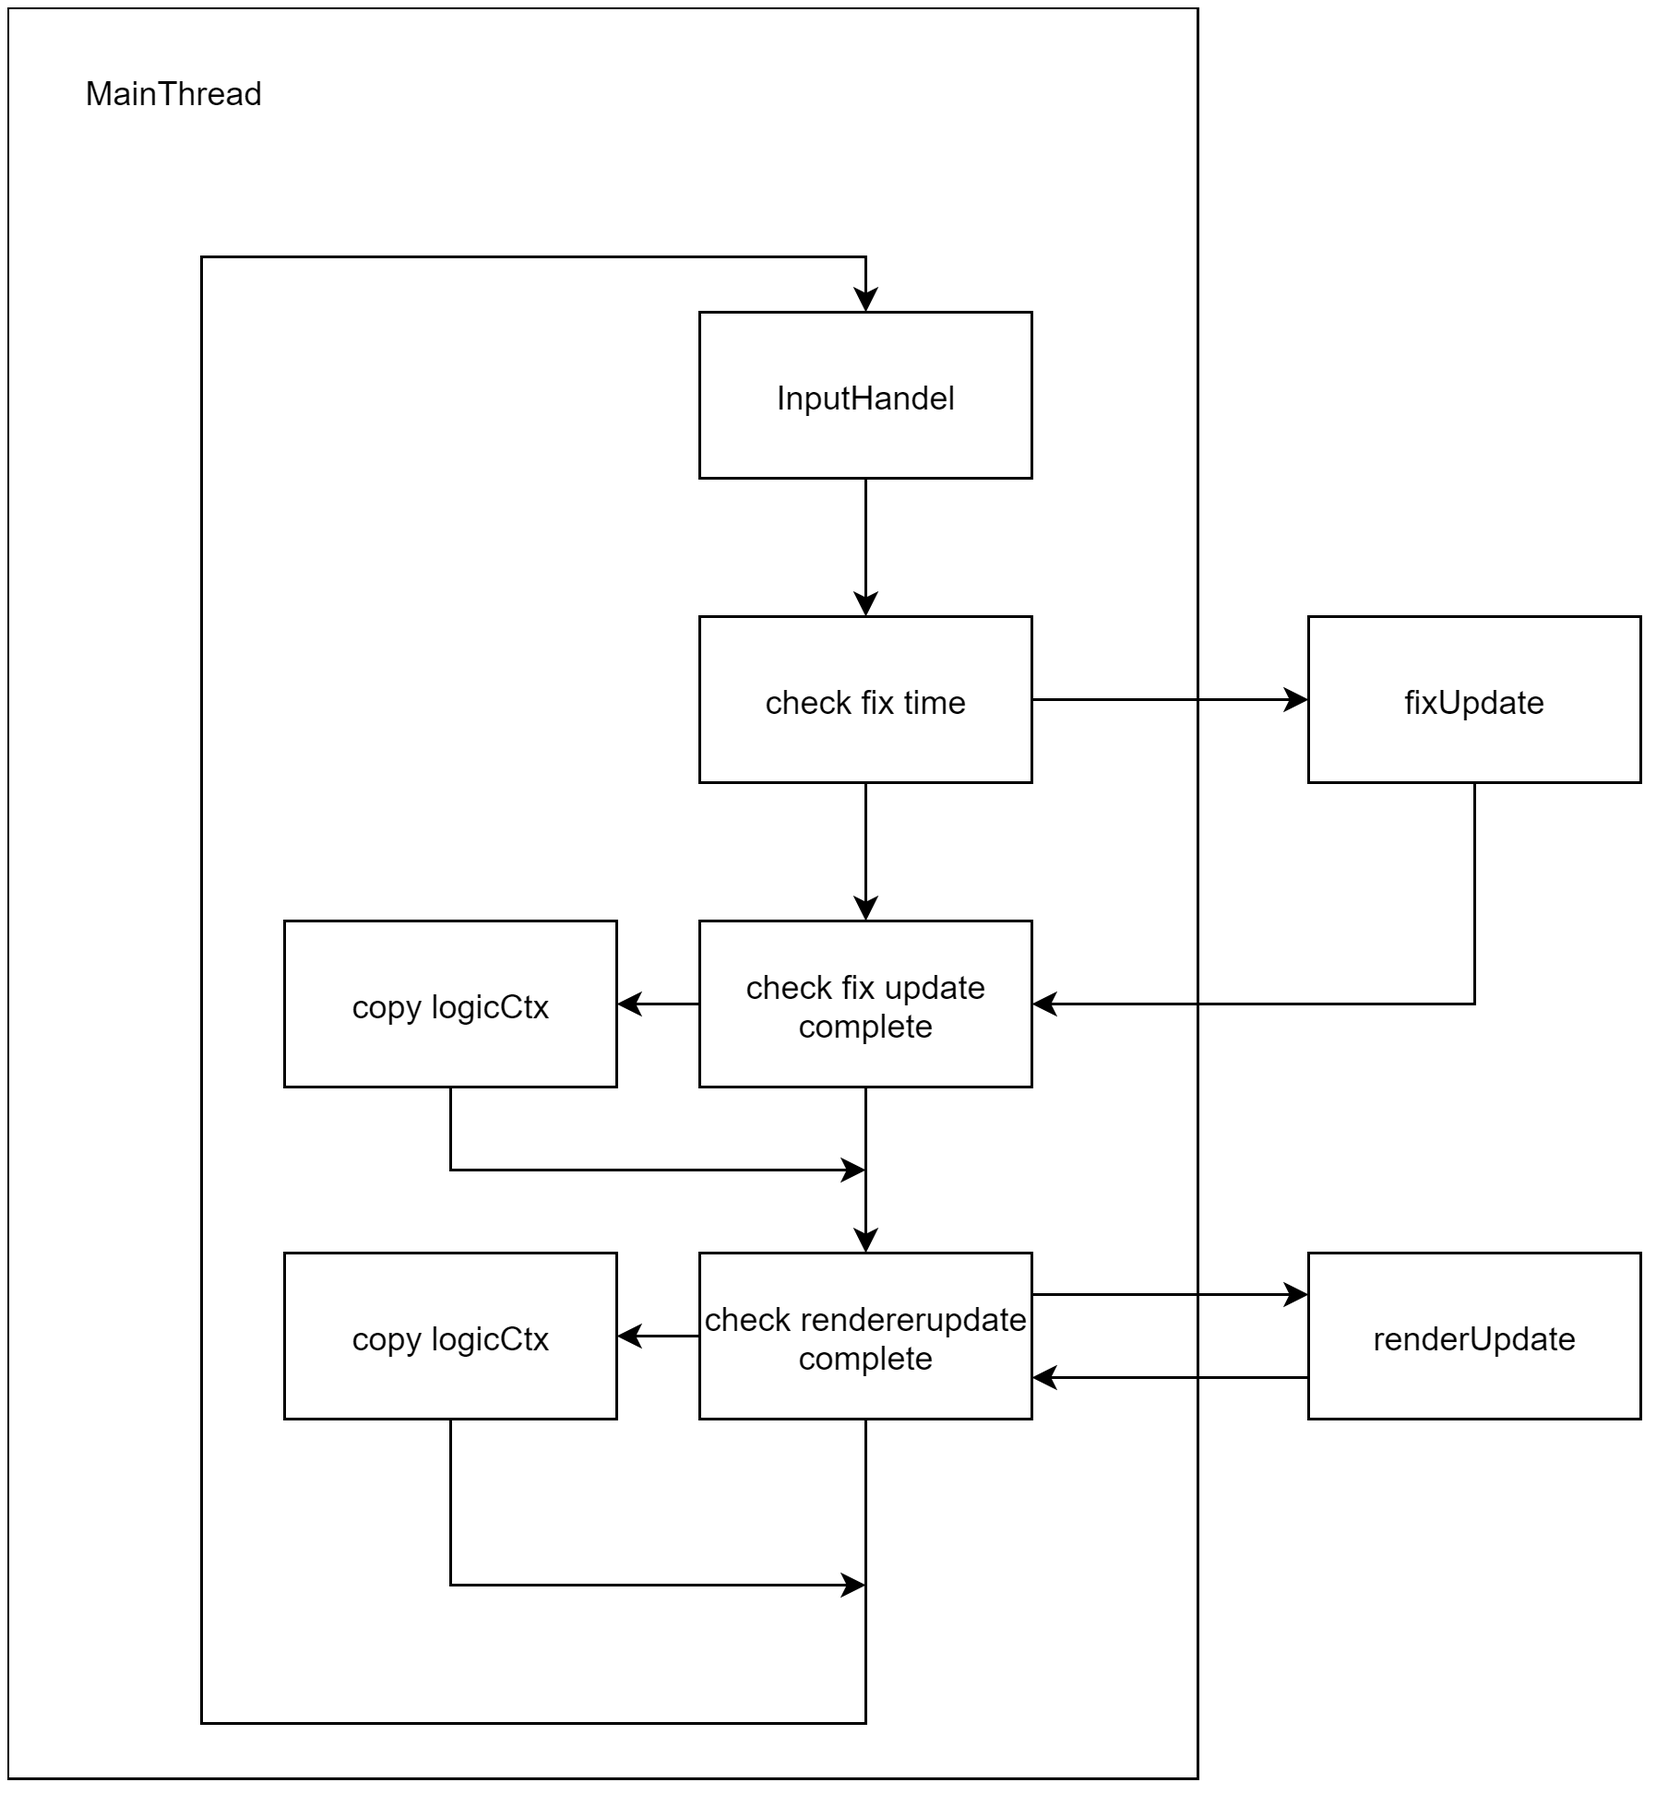
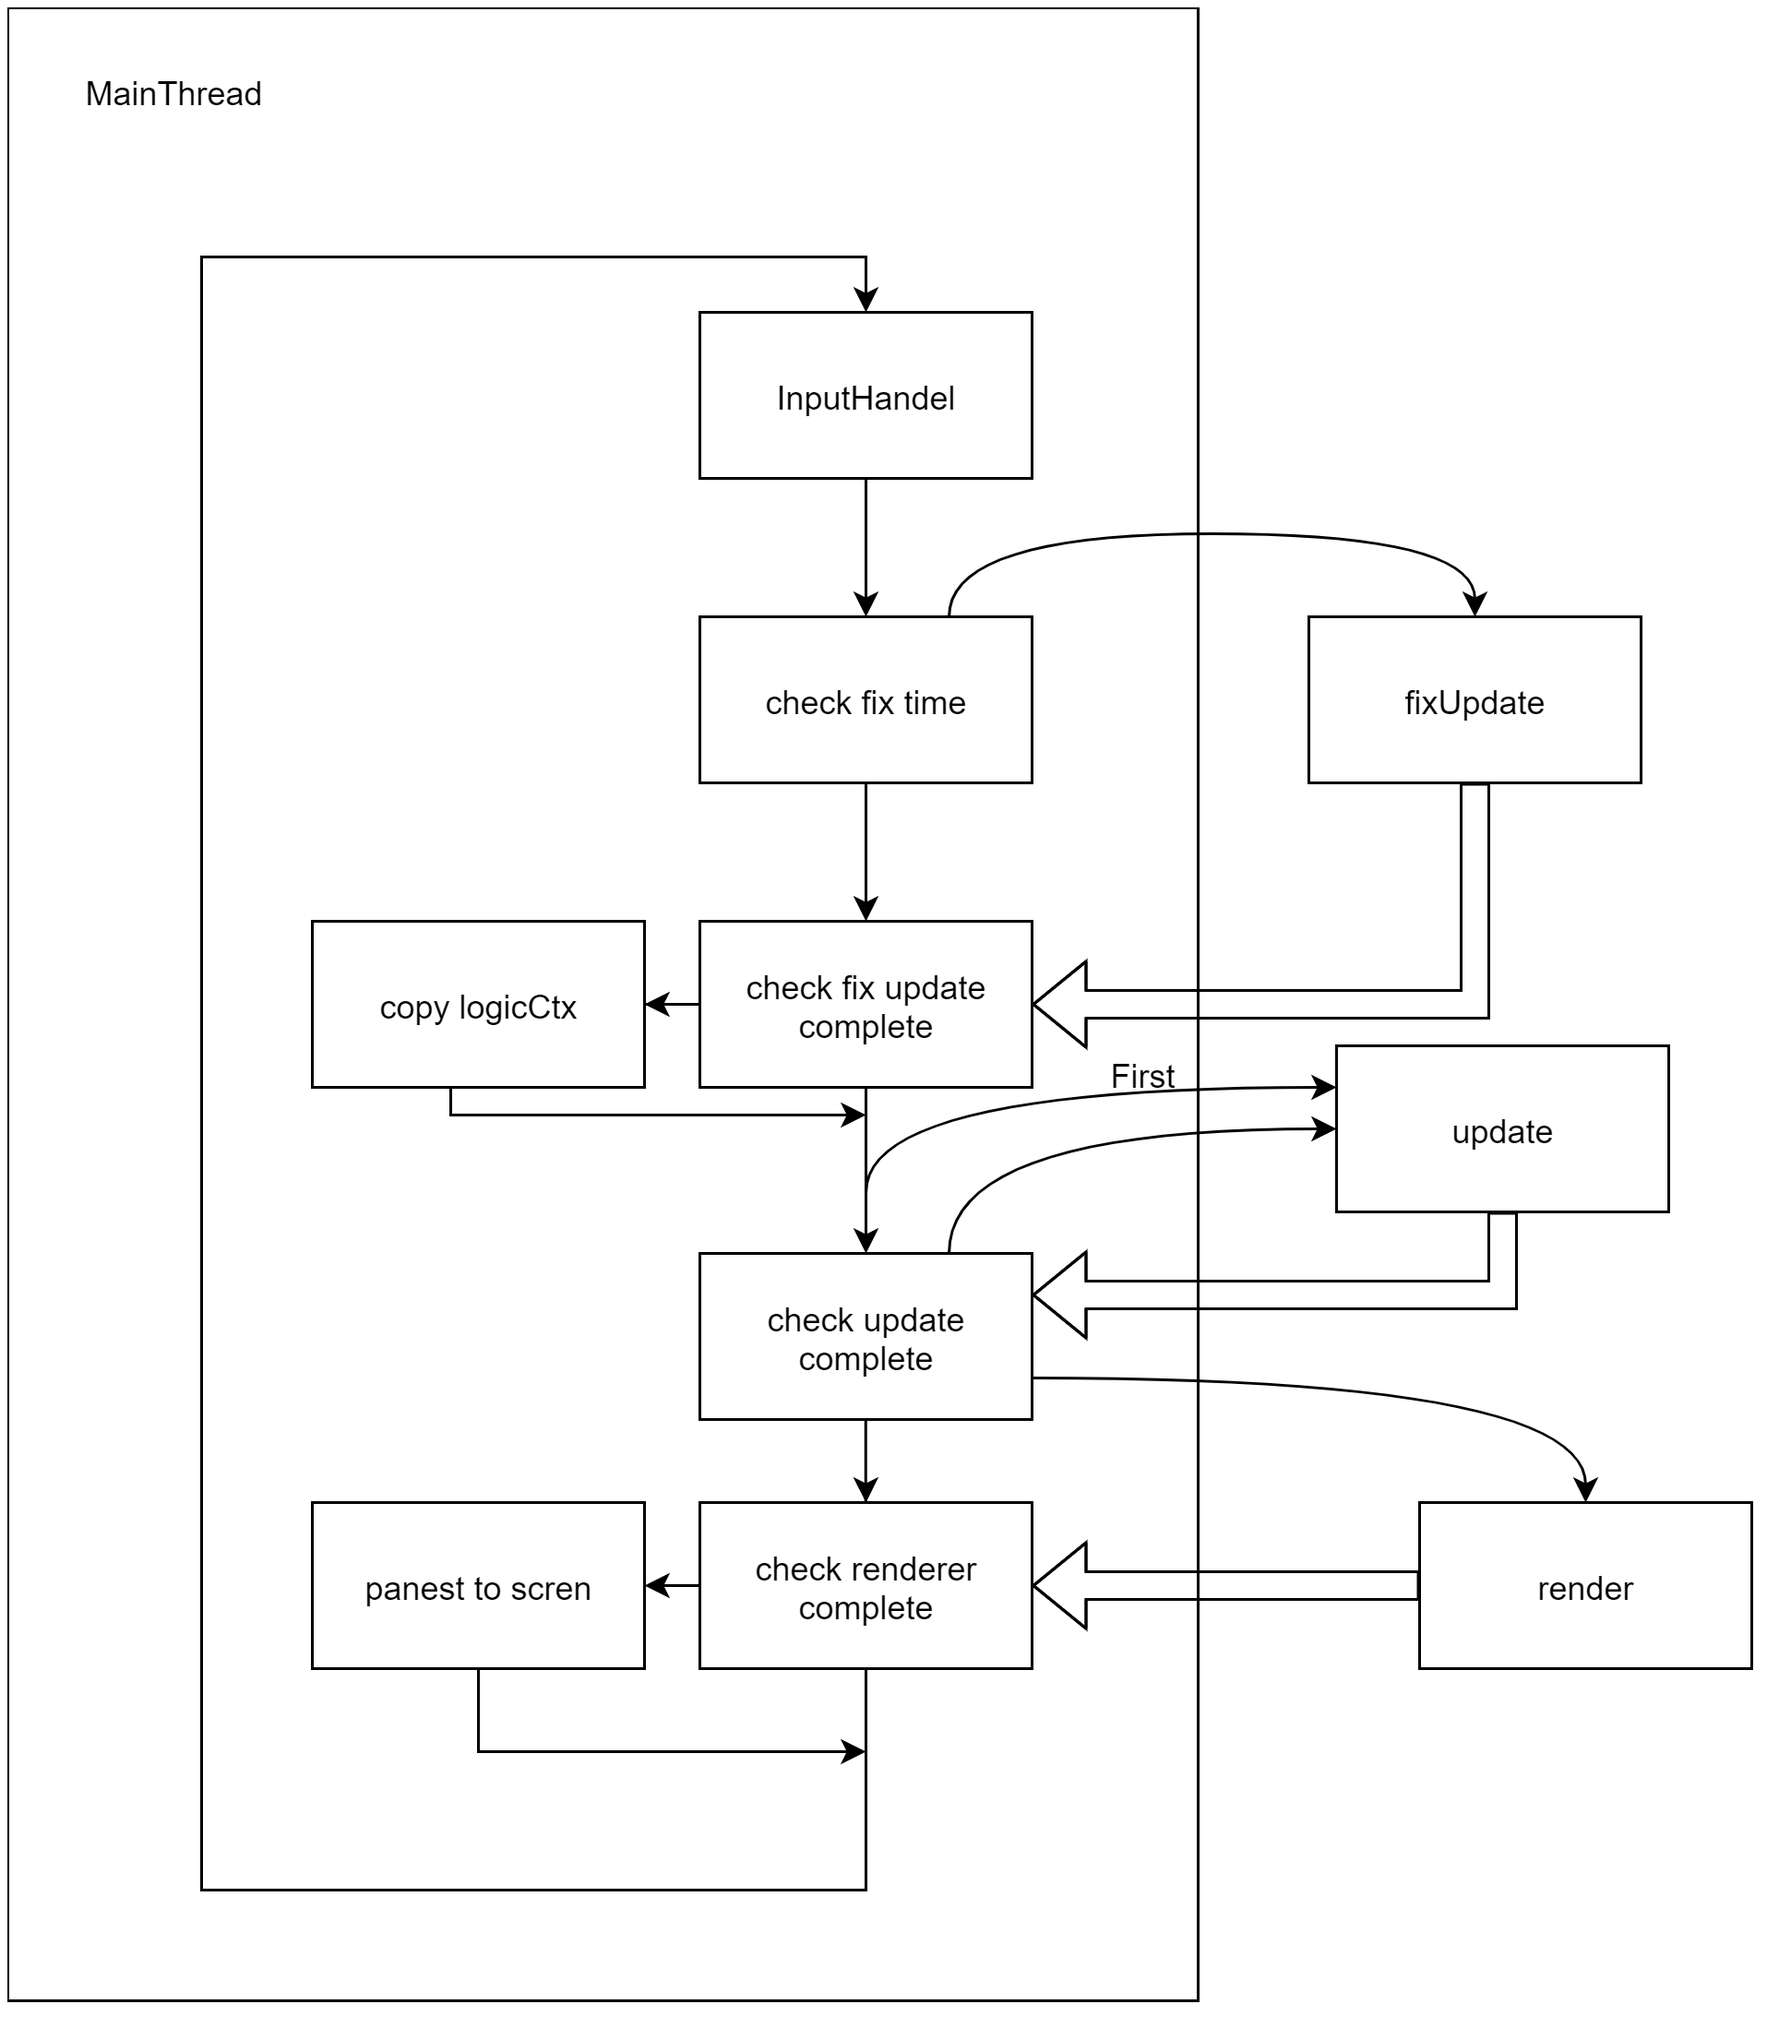
complete pipline

diff --git a/src/core/app.rs b/src/core/app.rs
@@ -1,4 +1,4 @@
-use sdl2::{Sdl, event::Event};
+use sdl2::{Sdl, rect::{Rect, Point}, event::Event, render::{Texture, Canvas}, surface::Surface, pixels::{PixelFormatEnum, Color}};
 use std::{thread, sync::mpsc::channel, time};
 
 use crate::core::window::Window;
@@ -15,18 +15,73 @@ struct LogicContex{
     is_quit: bool,
     is_pause: bool,
     last_tic: u32, 
-    now_tic: u32
+    now_tic: u32,
+    test: u8,
+    test_pos: Point,
+    test_dir: i32,
 }
 
 impl LogicContex {
     fn new() -> LogicContex{
-        LogicContex { is_quit: false, is_pause: false, last_tic: 0, now_tic: 0}
+        LogicContex { 
+            is_quit: false, 
+            is_pause: false, 
+            last_tic: 0, 
+            now_tic: 0, 
+            test: 0, 
+            test_pos: Point::new(0, 0),
+            test_dir: 1,
+        }
     }
 }
 
 impl Clone for LogicContex {
     fn clone(&self) -> Self {
-        Self { is_quit: self.is_quit, is_pause: self.is_pause, last_tic: self.last_tic, now_tic: self.now_tic}
+        Self { 
+            is_quit: self.is_quit, 
+            is_pause: self.is_pause, 
+            last_tic: self.last_tic, 
+            now_tic: self.now_tic, 
+            test: self.test,
+            test_pos: self.test_pos,
+            test_dir: self.test_dir,
+        }
+    }
+}
+
+impl LogicContex {
+    fn fix_update(&mut self, delta_time: u32){
+        let add: u8 = (delta_time/3).try_into().expect("msg");
+        if self.test > 255 - add{
+            self.test = self.test - (255 - add);
+        }else {
+            self.test = self.test + add;
+        }
+        let add:i32 = delta_time.try_into().expect("msg");
+        self.test_pos.x += self.test_dir * add;
+        if self.test_pos.x > 300{
+            self.test_dir = -1;
+        }
+        if self.test_pos.x < 0{
+            self.test_dir = 1;
+        }
+    }
+
+    fn update(&mut self, delta_time: u32){
+        let add: u8 = (delta_time/3).try_into().expect("msg");
+        if self.test > 255 - add{
+            self.test = self.test - (255 - add);
+        }else {
+            self.test = self.test + add;
+        }
+        let add:i32 = delta_time.try_into().expect("msg");
+        self.test_pos.x += self.test_dir * add;
+        if self.test_pos.x > 300{
+            self.test_dir = -1;
+        }
+        if self.test_pos.x < 0{
+            self.test_dir = 1;
+        }
     }
 }
 
@@ -43,44 +98,140 @@ impl App {
 
     pub fn run(&mut self){
         let start = time::Instant::now();
+        let mut debug_tic: u64 = 0;
+        let mut now;
+        let mut during: u32;
+        let (logic_ctx_sender, logic_ctx_receiver) = channel();
+        let (render_ctx_sender, render_ctx_receiver) = channel();
+        let (render_sender, render_receiver) = channel();
         while !self.logic_ctx.is_quit {
-            let now = time::Instant::now();
-            let during: u32 = now.duration_since(start).as_millis().try_into().expect("during to big");
-
-            let (logic_ctx_sender, logic_ctx_receiver) = channel();
-            if during - self.logic_ctx.now_tic > 10 {
-                let mut contex = self.logic_ctx.clone();
-                contex.now_tic = contex.now_tic + 20;
-                thread::spawn(move||{
-                    App::fix_update(&mut contex);
-                    logic_ctx_sender.send(contex).expect("send err");
-                });
-            }
-
-
+            //let duration = time::Duration::from_millis(debug_tic);
+            now = /*match start.checked_add(duration) {
+                Some(tic)=>{tic},
+                None =>{panic!("err");}
+            };*/time::Instant::now();
+            during = now.duration_since(start).as_millis().try_into().expect("during to big");
 
             let mut event_pump = self.sdl.event_pump().map_err(|e| e.to_string()).expect("msg");
             for event in event_pump.poll_iter(){
                 self.event_handle(&event);
             }
+
+            if during > self.logic_ctx.now_tic + 10 {
+                self.logic_ctx.last_tic = self.logic_ctx.now_tic;
+                self.logic_ctx.now_tic = self.logic_ctx.now_tic + 20;
+                let mut contex = self.logic_ctx.clone();
+                let logic_ctx_sender_clone = logic_ctx_sender.clone();
+                let fix_thread = thread::spawn(move||{
+                    contex.fix_update(contex.now_tic - contex.last_tic);
+                    logic_ctx_sender_clone.send(contex).expect("send err");
+                });
+                fix_thread.join().expect("msg");
+            }
+
+            match logic_ctx_receiver.try_recv() {
+                Ok(contex) =>{
+                    self.logic_ctx = contex;
+                },
+                Err(_) =>{ }
+            }
+
+            if self.logic_ctx.now_tic == 0 {
+                let render_ctx_sender_clone = render_ctx_sender.clone();
+                let mut contex = self.logic_ctx.clone();
+                contex.last_tic = contex.now_tic;
+                contex.now_tic = during;
+                let render_thread = thread::spawn(move||{
+                    contex.update(contex.now_tic - contex.last_tic);
+                    render_ctx_sender_clone.send(contex).expect("update ctx send err");
+                });
+                render_thread.join().expect("msg");
+            }
+
+            match render_ctx_receiver.try_recv() {
+                Ok(contex) =>{
+                    let render_sender_clone = render_sender.clone();
+                    let update_thread = thread::spawn(move||{
+                        let surface 
+                            = Surface::new(720, 720, PixelFormatEnum::RGBA8888)
+                            .expect("creat suferce err");
+                        let mut canvas = surface.into_canvas().expect("into canvas err");
+                        App::befor_render(&mut canvas);
+                        App::render(&mut canvas, &contex);
+                        App::adter_render(&mut canvas);
+                        //let suferce = canvas.surface();
+                        let surface = canvas.surface();
+                        let (date, width, height, pitch) = (surface.with_lock(|date|{
+                            date.to_owned()
+                        }), surface.width(), surface.height(), surface.pitch());
+                        render_sender_clone.send((date, width, height, pitch)).expect("render send err");
+                    });
+                    update_thread.join().expect("msg");
+
+                    let render_ctx_sender_clone = render_ctx_sender.clone();
+                    let mut contex = self.logic_ctx.clone();
+                    if during > contex.now_tic{
+                        contex.last_tic = contex.now_tic;
+                    }
+                    contex.now_tic = during;
+                    let render_thread = thread::spawn(move||{
+                        contex.update(contex.now_tic - contex.last_tic);
+                        render_ctx_sender_clone.send(contex).expect("update ctx send err");
+                    });
+                    render_thread.join().expect("msg");
+                },
+                Err(_) =>{ }
+            }
+
+            match render_receiver.try_recv() {
+                Ok((date, width, height, pitch)) =>{
+                    self.window.draw(date, width, height, pitch);
+                },
+                Err(_) =>{ }
+            }
+
+            debug_tic = debug_tic + 5;
         }
     }
 
     fn event_handle(&mut self, event: &Event){
         match event {
-            Event::Quit{..} => { self.logic_ctx.is_quit; },
-            _ => {print!("hhh");}
+            Event::Quit{..} => { self.logic_ctx.is_quit = true; },
+            _ => {}//println!("hhh");
         }
     }
 
-    fn fix_update(ctx: &mut LogicContex){
-            
+    fn befor_render(canvas: &mut Canvas<Surface>){
+        let old_color = canvas.draw_color();
+        let draw_color = Color::RGBA(255, 0, 0, 255);
+        let rect = Rect::new(0, 0, 80, 80);
+        canvas.set_draw_color(draw_color);
+        canvas.fill_rect(rect).expect("err");
+        canvas.set_draw_color(old_color);
+    }
+
+    fn render(canvas: &mut Canvas<Surface>, ctx: &LogicContex){
+        let old_color = canvas.draw_color();
+        let draw_color = Color::RGBA(0, ctx.test, 0, 255);
+        let rect = Rect::new(ctx.test_pos.x, ctx.test_pos.x, 80, 80);
+        canvas.set_draw_color(draw_color);
+        canvas.fill_rect(rect).expect("err");
+        canvas.set_draw_color(old_color);
+    }
+
+    fn adter_render(canvas: &mut Canvas<Surface>){
+        let old_color = canvas.draw_color();
+        let draw_color = Color::RGBA(0, 0, 255, 255);
+        let rect = Rect::new(200, 200, 80, 80);
+        canvas.set_draw_color(draw_color);
+        canvas.fill_rect(rect).expect("err");
+        canvas.set_draw_color(old_color);
     }
 
     fn init_sdl() -> (Sdl, Window){
         let sdl_context = sdl2::init().expect("msg");
         let window = Window::new(&sdl_context);
 
-        return (sdl_context, window);
+        (sdl_context, window)
     }
 }

diff --git a/src/core/window.rs b/src/core/window.rs
@@ -1,4 +1,4 @@
-use sdl2::{Sdl, render::Canvas};
+use sdl2::{Sdl, surface::Surface, pixels::PixelFormatEnum, render::Canvas};
 
 pub struct Window{
     canvas: Canvas<sdl2::video::Window>
@@ -23,5 +23,15 @@ impl Window {
         Window{
             canvas
         }
+    }
+
+    pub fn draw(&mut self, vec_date: Vec<u8>, width: u32, height: u32, pitch: u32){
+        let mut vec_date = vec_date;
+        let date = &mut vec_date[..];
+        let surface = Surface::from_data(date, width, height, pitch, PixelFormatEnum::RGBA8888).expect("");
+        let texture_creator = self.canvas.texture_creator();
+        let tex = surface.as_texture(&texture_creator).expect("err");
+        self.canvas.copy(&tex, Option::None, Option::None).expect("err");
+        self.canvas.present();
     }
 }

diff --git a/src/main.rs b/src/main.rs
@@ -3,7 +3,7 @@
 use amiya_engine::core::app::App;
 
 fn main(){
-    let mut app = App::new();
+     let mut app = App::new();
     app.run();
 }
 
